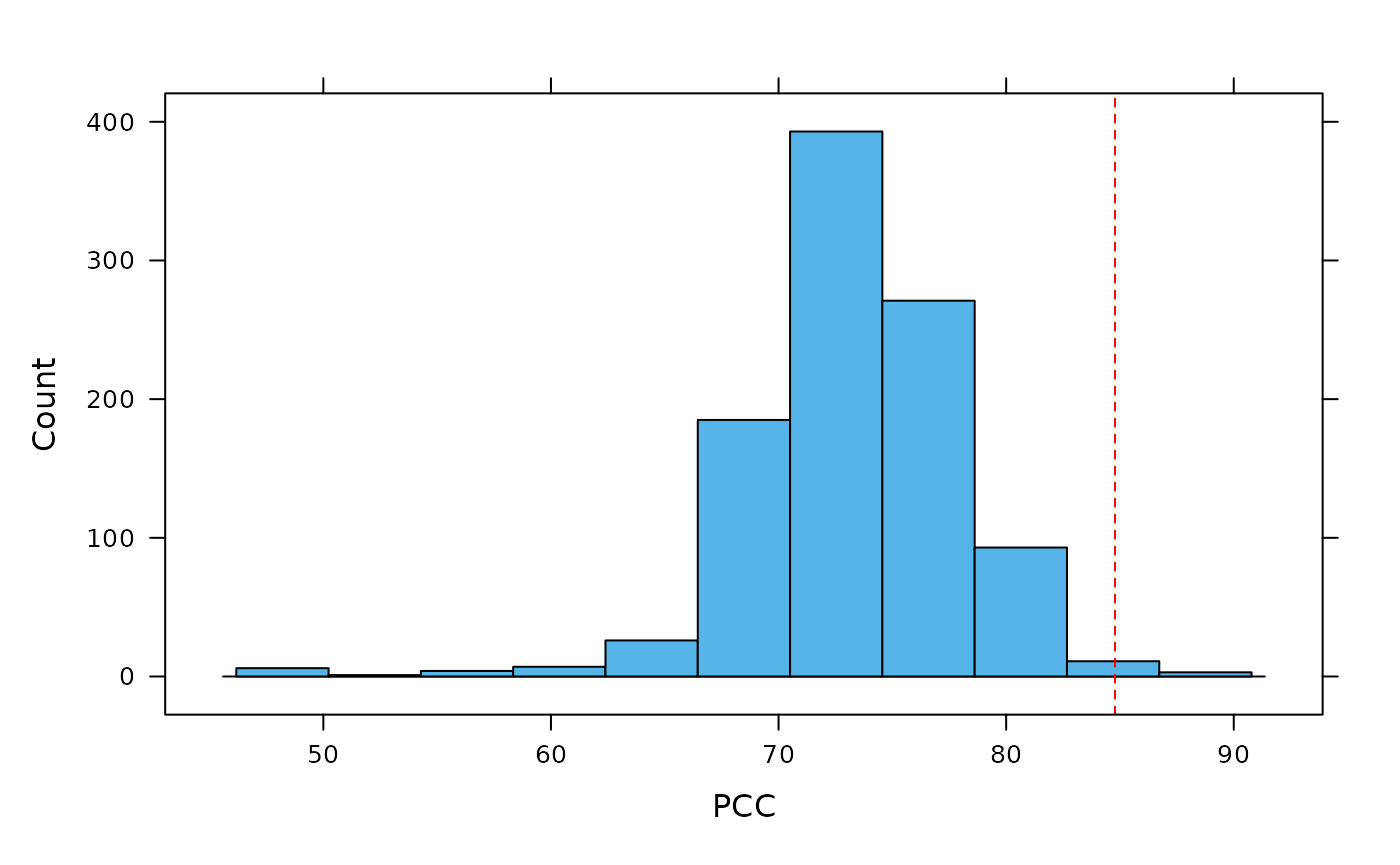
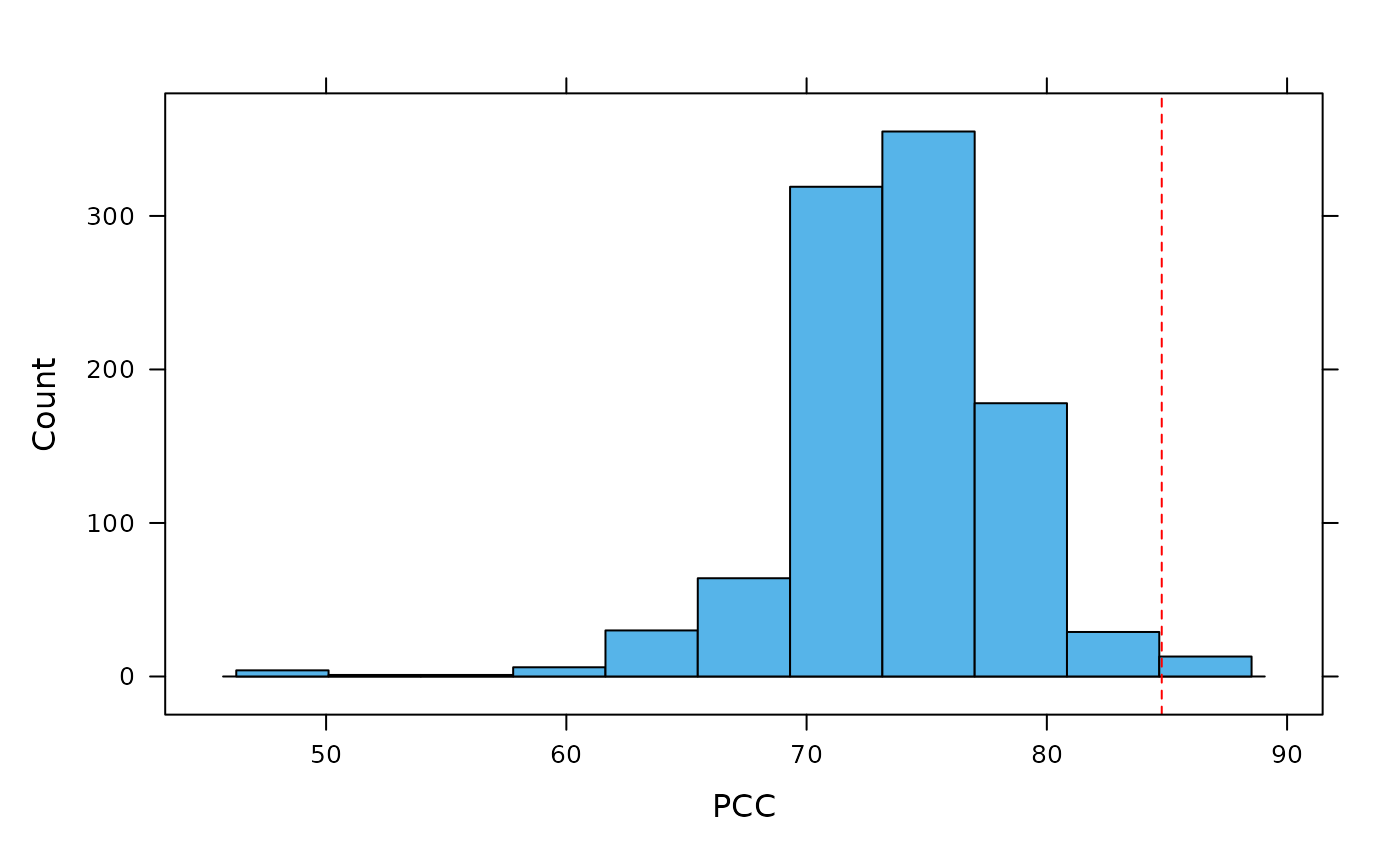
Deploying to gh-pages from @ timbeechey/clubpro@1753fce94fdca0308ab25d107f8b963b9de141fd 🚀

diff --git a/reference/pcc_replicates.html b/reference/pcc_replicates.html
@@ -10,7 +10,7 @@
     
     <a class="navbar-brand me-2" href="../index.html">clubpro</a>
 
-    <small class="nav-text text-muted me-auto" data-bs-toggle="tooltip" data-bs-placement="bottom" title="">0.6.0.009</small>
+    <small class="nav-text text-muted me-auto" data-bs-toggle="tooltip" data-bs-placement="bottom" title="">0.6.0.010</small>
 
     
     <button class="navbar-toggler" type="button" data-bs-toggle="collapse" data-bs-target="#navbar" aria-controls="navbar" aria-expanded="false" aria-label="Toggle navigation">
@@ -80,12 +80,12 @@ calculate the chance-value.</p>
     <div class="sourceCode"><pre class="sourceCode r"><code><span class="r-in"><span><span class="va">mod</span> <span class="op">&lt;-</span> <span class="fu"><a href="club.html">club</a></span><span class="op">(</span><span class="va">rate</span> <span class="op">~</span> <span class="va">dose</span>, data <span class="op">=</span> <span class="va">caffeine</span><span class="op">)</span></span></span>
 <span class="r-in"><span><span class="fu"><a href="https://rdrr.io/r/utils/head.html" class="external-link">head</a></span><span class="op">(</span><span class="fu">pcc_replicates</span><span class="op">(</span><span class="va">mod</span><span class="op">)</span><span class="op">)</span></span></span>
 <span class="r-out co"><span class="r-pr">#&gt;</span>          [,1]</span>
-<span class="r-out co"><span class="r-pr">#&gt;</span> [1,] 60.00000</span>
+<span class="r-out co"><span class="r-pr">#&gt;</span> [1,] 56.66667</span>
 <span class="r-out co"><span class="r-pr">#&gt;</span> [2,] 60.00000</span>
-<span class="r-out co"><span class="r-pr">#&gt;</span> [3,] 53.33333</span>
-<span class="r-out co"><span class="r-pr">#&gt;</span> [4,] 60.00000</span>
-<span class="r-out co"><span class="r-pr">#&gt;</span> [5,] 60.00000</span>
-<span class="r-out co"><span class="r-pr">#&gt;</span> [6,] 63.33333</span>
+<span class="r-out co"><span class="r-pr">#&gt;</span> [3,] 56.66667</span>
+<span class="r-out co"><span class="r-pr">#&gt;</span> [4,] 50.00000</span>
+<span class="r-out co"><span class="r-pr">#&gt;</span> [5,] 53.33333</span>
+<span class="r-out co"><span class="r-pr">#&gt;</span> [6,] 56.66667</span>
 </code></pre></div>
     </div>
   </main><aside class="col-md-3"><nav id="toc"><h2>On this page</h2>

diff --git a/articles/clubpro.html b/articles/clubpro.html
@@ -26,7 +26,7 @@
     
     <a class="navbar-brand me-2" href="../index.html">clubpro</a>
 
-    <small class="nav-text text-muted me-auto" data-bs-toggle="tooltip" data-bs-placement="bottom" title="">0.6.0.009</small>
+    <small class="nav-text text-muted me-auto" data-bs-toggle="tooltip" data-bs-placement="bottom" title="">0.6.0.010</small>
 
     
     <button class="navbar-toggler" type="button" data-bs-toggle="collapse" data-bs-target="#navbar" aria-controls="navbar" aria-expanded="false" aria-label="Toggle navigation">
@@ -96,7 +96,7 @@
 <span><span class="co">#&gt; ********** Randomisation Test **********</span></span>
 <span><span class="co">#&gt; Random reorderings: 1000 </span></span>
 <span><span class="co">#&gt; Minimum random PCC: 47.83 </span></span>
-<span><span class="co">#&gt; Maximum random PCC: 89.13 </span></span>
+<span><span class="co">#&gt; Maximum random PCC: 86.96 </span></span>
 <span><span class="co">#&gt; Chance-value: 0.01 </span></span>
 <span><span class="co">#&gt; </span></span>
 <span><span class="co">#&gt;    individual observation         target     prediction  accuracy  csi</span></span>
@@ -178,7 +178,7 @@
 <span><span class="co">#&gt; [1] 84.78261</span></span></code></pre></div>
 <div class="sourceCode" id="cb8"><pre class="downlit sourceCode r">
 <code class="sourceCode R"><span><span class="fu"><a href="../reference/cval.html">cval</a></span><span class="op">(</span><span class="va">mod</span><span class="op">)</span></span>
-<span><span class="co">#&gt; [1] 0.014</span></span></code></pre></div>
+<span><span class="co">#&gt; [1] 0.013</span></span></code></pre></div>
 <div class="sourceCode" id="cb9"><pre class="downlit sourceCode r">
 <code class="sourceCode R"><span><span class="fu"><a href="https://rdrr.io/r/graphics/plot.default.html" class="external-link">plot</a></span><span class="op">(</span><span class="fu"><a href="../reference/pcc_replicates.html">pcc_replicates</a></span><span class="op">(</span><span class="va">mod</span><span class="op">)</span><span class="op">)</span></span></code></pre></div>
 <p><img src="clubpro_files/figure-html/plot_cval_dist-1.png" width="700"></p>

diff --git a/reference/summary.clubprofit.html b/reference/summary.clubprofit.html
@@ -10,7 +10,7 @@
     
     <a class="navbar-brand me-2" href="../index.html">clubpro</a>
 
-    <small class="nav-text text-muted me-auto" data-bs-toggle="tooltip" data-bs-placement="bottom" title="">0.6.0.009</small>
+    <small class="nav-text text-muted me-auto" data-bs-toggle="tooltip" data-bs-placement="bottom" title="">0.6.0.010</small>
 
     
     <button class="navbar-toggler" type="button" data-bs-toggle="collapse" data-bs-target="#navbar" aria-controls="navbar" aria-expanded="false" aria-label="Toggle navigation">
@@ -96,8 +96,8 @@
 <span class="r-out co"><span class="r-pr">#&gt;</span> ********** Randomisation Test **********</span>
 <span class="r-out co"><span class="r-pr">#&gt;</span> Random reorderings: 1000 </span>
 <span class="r-out co"><span class="r-pr">#&gt;</span> Minimum random PCC: 23.33 </span>
-<span class="r-out co"><span class="r-pr">#&gt;</span> Maximum random PCC: 76.67 </span>
-<span class="r-out co"><span class="r-pr">#&gt;</span> Chance-value: 0.51 </span>
+<span class="r-out co"><span class="r-pr">#&gt;</span> Maximum random PCC: 80 </span>
+<span class="r-out co"><span class="r-pr">#&gt;</span> Chance-value: 0.49 </span>
 <span class="r-out co"><span class="r-pr">#&gt;</span> </span>
 <span class="r-out co"><span class="r-pr">#&gt;</span>    individual observation target prediction  accuracy  csi</span>
 <span class="r-out co"><span class="r-pr">#&gt;</span> 1           1         242      0          0   correct 1.00</span>

diff --git a/reference/cval.html b/reference/cval.html
@@ -10,7 +10,7 @@
     
     <a class="navbar-brand me-2" href="../index.html">clubpro</a>
 
-    <small class="nav-text text-muted me-auto" data-bs-toggle="tooltip" data-bs-placement="bottom" title="">0.6.0.009</small>
+    <small class="nav-text text-muted me-auto" data-bs-toggle="tooltip" data-bs-placement="bottom" title="">0.6.0.010</small>
 
     
     <button class="navbar-toggler" type="button" data-bs-toggle="collapse" data-bs-target="#navbar" aria-controls="navbar" aria-expanded="false" aria-label="Toggle navigation">
@@ -80,7 +80,7 @@ the observed data.</p>
     <h2 id="ref-examples">Examples<a class="anchor" aria-label="anchor" href="#ref-examples"></a></h2>
     <div class="sourceCode"><pre class="sourceCode r"><code><span class="r-in"><span><span class="va">mod</span> <span class="op">&lt;-</span> <span class="fu"><a href="club.html">club</a></span><span class="op">(</span><span class="va">rate</span> <span class="op">~</span> <span class="va">dose</span>, data <span class="op">=</span> <span class="va">caffeine</span><span class="op">)</span></span></span>
 <span class="r-in"><span><span class="fu">cval</span><span class="op">(</span><span class="va">mod</span><span class="op">)</span></span></span>
-<span class="r-out co"><span class="r-pr">#&gt;</span> [1] 0.51</span>
+<span class="r-out co"><span class="r-pr">#&gt;</span> [1] 0.517</span>
 </code></pre></div>
     </div>
   </main><aside class="col-md-3"><nav id="toc"><h2>On this page</h2>

diff --git a/index.html b/index.html
@@ -28,7 +28,7 @@
     
     <a class="navbar-brand me-2" href="index.html">clubpro</a>
 
-    <small class="nav-text text-muted me-auto" data-bs-toggle="tooltip" data-bs-placement="bottom" title="">0.6.0.009</small>
+    <small class="nav-text text-muted me-auto" data-bs-toggle="tooltip" data-bs-placement="bottom" title="">0.6.0.010</small>
 
     
     <button class="navbar-toggler" type="button" data-bs-toggle="collapse" data-bs-target="#navbar" aria-controls="navbar" aria-expanded="false" aria-label="Toggle navigation">
@@ -123,9 +123,9 @@
 <span><span class="co">#&gt; </span></span>
 <span><span class="co">#&gt; ********** Randomisation Test **********</span></span>
 <span><span class="co">#&gt; Random reorderings: 1000 </span></span>
-<span><span class="co">#&gt; Minimum random PCC: 30 </span></span>
-<span><span class="co">#&gt; Maximum random PCC: 83.33 </span></span>
-<span><span class="co">#&gt; Chance-value: 0.91 </span></span>
+<span><span class="co">#&gt; Minimum random PCC: 20 </span></span>
+<span><span class="co">#&gt; Maximum random PCC: 80 </span></span>
+<span><span class="co">#&gt; Chance-value: 0.92 </span></span>
 <span><span class="co">#&gt; </span></span>
 <span><span class="co">#&gt;    individual observation target prediction  accuracy  csi</span></span>
 <span><span class="co">#&gt; 1           1          39    SFR Before|SFR ambiguous 0.68</span></span>

diff --git a/authors.html b/authors.html
@@ -10,7 +10,7 @@
     
     <a class="navbar-brand me-2" href="index.html">clubpro</a>
 
-    <small class="nav-text text-muted me-auto" data-bs-toggle="tooltip" data-bs-placement="bottom" title="">0.6.0.009</small>
+    <small class="nav-text text-muted me-auto" data-bs-toggle="tooltip" data-bs-placement="bottom" title="">0.6.0.010</small>
 
     
     <button class="navbar-toggler" type="button" data-bs-toggle="collapse" data-bs-target="#navbar" aria-controls="navbar" aria-expanded="false" aria-label="Toggle navigation">
@@ -61,13 +61,13 @@
 
       <p>Beechey T (2023).
 <em>clubpro: Classification Using Binary Procrustes Rotation</em>.
-R package version 0.6.0.009, <a href="https://timbeechey.github.io/clubpro/">https://timbeechey.github.io/clubpro/</a>. 
+R package version 0.6.0.010, <a href="https://timbeechey.github.io/clubpro/">https://timbeechey.github.io/clubpro/</a>. 
 </p>
       <pre>@Manual{,
   title = {clubpro: Classification Using Binary Procrustes Rotation},
   author = {Timothy Beechey},
   year = {2023},
-  note = {R package version 0.6.0.009},
+  note = {R package version 0.6.0.010},
   url = {https://timbeechey.github.io/clubpro/},
 }</pre>
     </div>

diff --git a/reference/club.html b/reference/club.html
@@ -12,7 +12,7 @@ rotation."><!-- mathjax --><script src="https://cdnjs.cloudflare.com/ajax/libs/m
     
     <a class="navbar-brand me-2" href="../index.html">clubpro</a>
 
-    <small class="nav-text text-muted me-auto" data-bs-toggle="tooltip" data-bs-placement="bottom" title="">0.6.0.009</small>
+    <small class="nav-text text-muted me-auto" data-bs-toggle="tooltip" data-bs-placement="bottom" title="">0.6.0.010</small>
 
     
     <button class="navbar-toggler" type="button" data-bs-toggle="collapse" data-bs-target="#navbar" aria-controls="navbar" aria-expanded="false" aria-label="Toggle navigation">

diff --git a/404.html b/404.html
@@ -24,7 +24,7 @@
     
     <a class="navbar-brand me-2" href="https://timbeechey.github.io/clubpro/index.html">clubpro</a>
 
-    <small class="nav-text text-muted me-auto" data-bs-toggle="tooltip" data-bs-placement="bottom" title="">0.6.0.009</small>
+    <small class="nav-text text-muted me-auto" data-bs-toggle="tooltip" data-bs-placement="bottom" title="">0.6.0.010</small>
 
     
     <button class="navbar-toggler" type="button" data-bs-toggle="collapse" data-bs-target="#navbar" aria-controls="navbar" aria-expanded="false" aria-label="Toggle navigation">

diff --git a/articles/index.html b/articles/index.html
@@ -10,7 +10,7 @@
     
     <a class="navbar-brand me-2" href="../index.html">clubpro</a>
 
-    <small class="nav-text text-muted me-auto" data-bs-toggle="tooltip" data-bs-placement="bottom" title="">0.6.0.009</small>
+    <small class="nav-text text-muted me-auto" data-bs-toggle="tooltip" data-bs-placement="bottom" title="">0.6.0.010</small>
 
     
     <button class="navbar-toggler" type="button" data-bs-toggle="collapse" data-bs-target="#navbar" aria-controls="navbar" aria-expanded="false" aria-label="Toggle navigation">

diff --git a/news/index.html b/news/index.html
@@ -10,7 +10,7 @@
     
     <a class="navbar-brand me-2" href="../index.html">clubpro</a>
 
-    <small class="nav-text text-muted me-auto" data-bs-toggle="tooltip" data-bs-placement="bottom" title="">0.6.0.009</small>
+    <small class="nav-text text-muted me-auto" data-bs-toggle="tooltip" data-bs-placement="bottom" title="">0.6.0.010</small>
 
     
     <button class="navbar-toggler" type="button" data-bs-toggle="collapse" data-bs-target="#navbar" aria-controls="navbar" aria-expanded="false" aria-label="Toggle navigation">

diff --git a/reference/accuracy.html b/reference/accuracy.html
@@ -10,7 +10,7 @@
     
     <a class="navbar-brand me-2" href="../index.html">clubpro</a>
 
-    <small class="nav-text text-muted me-auto" data-bs-toggle="tooltip" data-bs-placement="bottom" title="">0.6.0.009</small>
+    <small class="nav-text text-muted me-auto" data-bs-toggle="tooltip" data-bs-placement="bottom" title="">0.6.0.010</small>
 
     
     <button class="navbar-toggler" type="button" data-bs-toggle="collapse" data-bs-target="#navbar" aria-controls="navbar" aria-expanded="false" aria-label="Toggle navigation">

diff --git a/reference/caffeine.html b/reference/caffeine.html
@@ -10,7 +10,7 @@
     
     <a class="navbar-brand me-2" href="../index.html">clubpro</a>
 
-    <small class="nav-text text-muted me-auto" data-bs-toggle="tooltip" data-bs-placement="bottom" title="">0.6.0.009</small>
+    <small class="nav-text text-muted me-auto" data-bs-toggle="tooltip" data-bs-placement="bottom" title="">0.6.0.010</small>
 
     
     <button class="navbar-toggler" type="button" data-bs-toggle="collapse" data-bs-target="#navbar" aria-controls="navbar" aria-expanded="false" aria-label="Toggle navigation">
